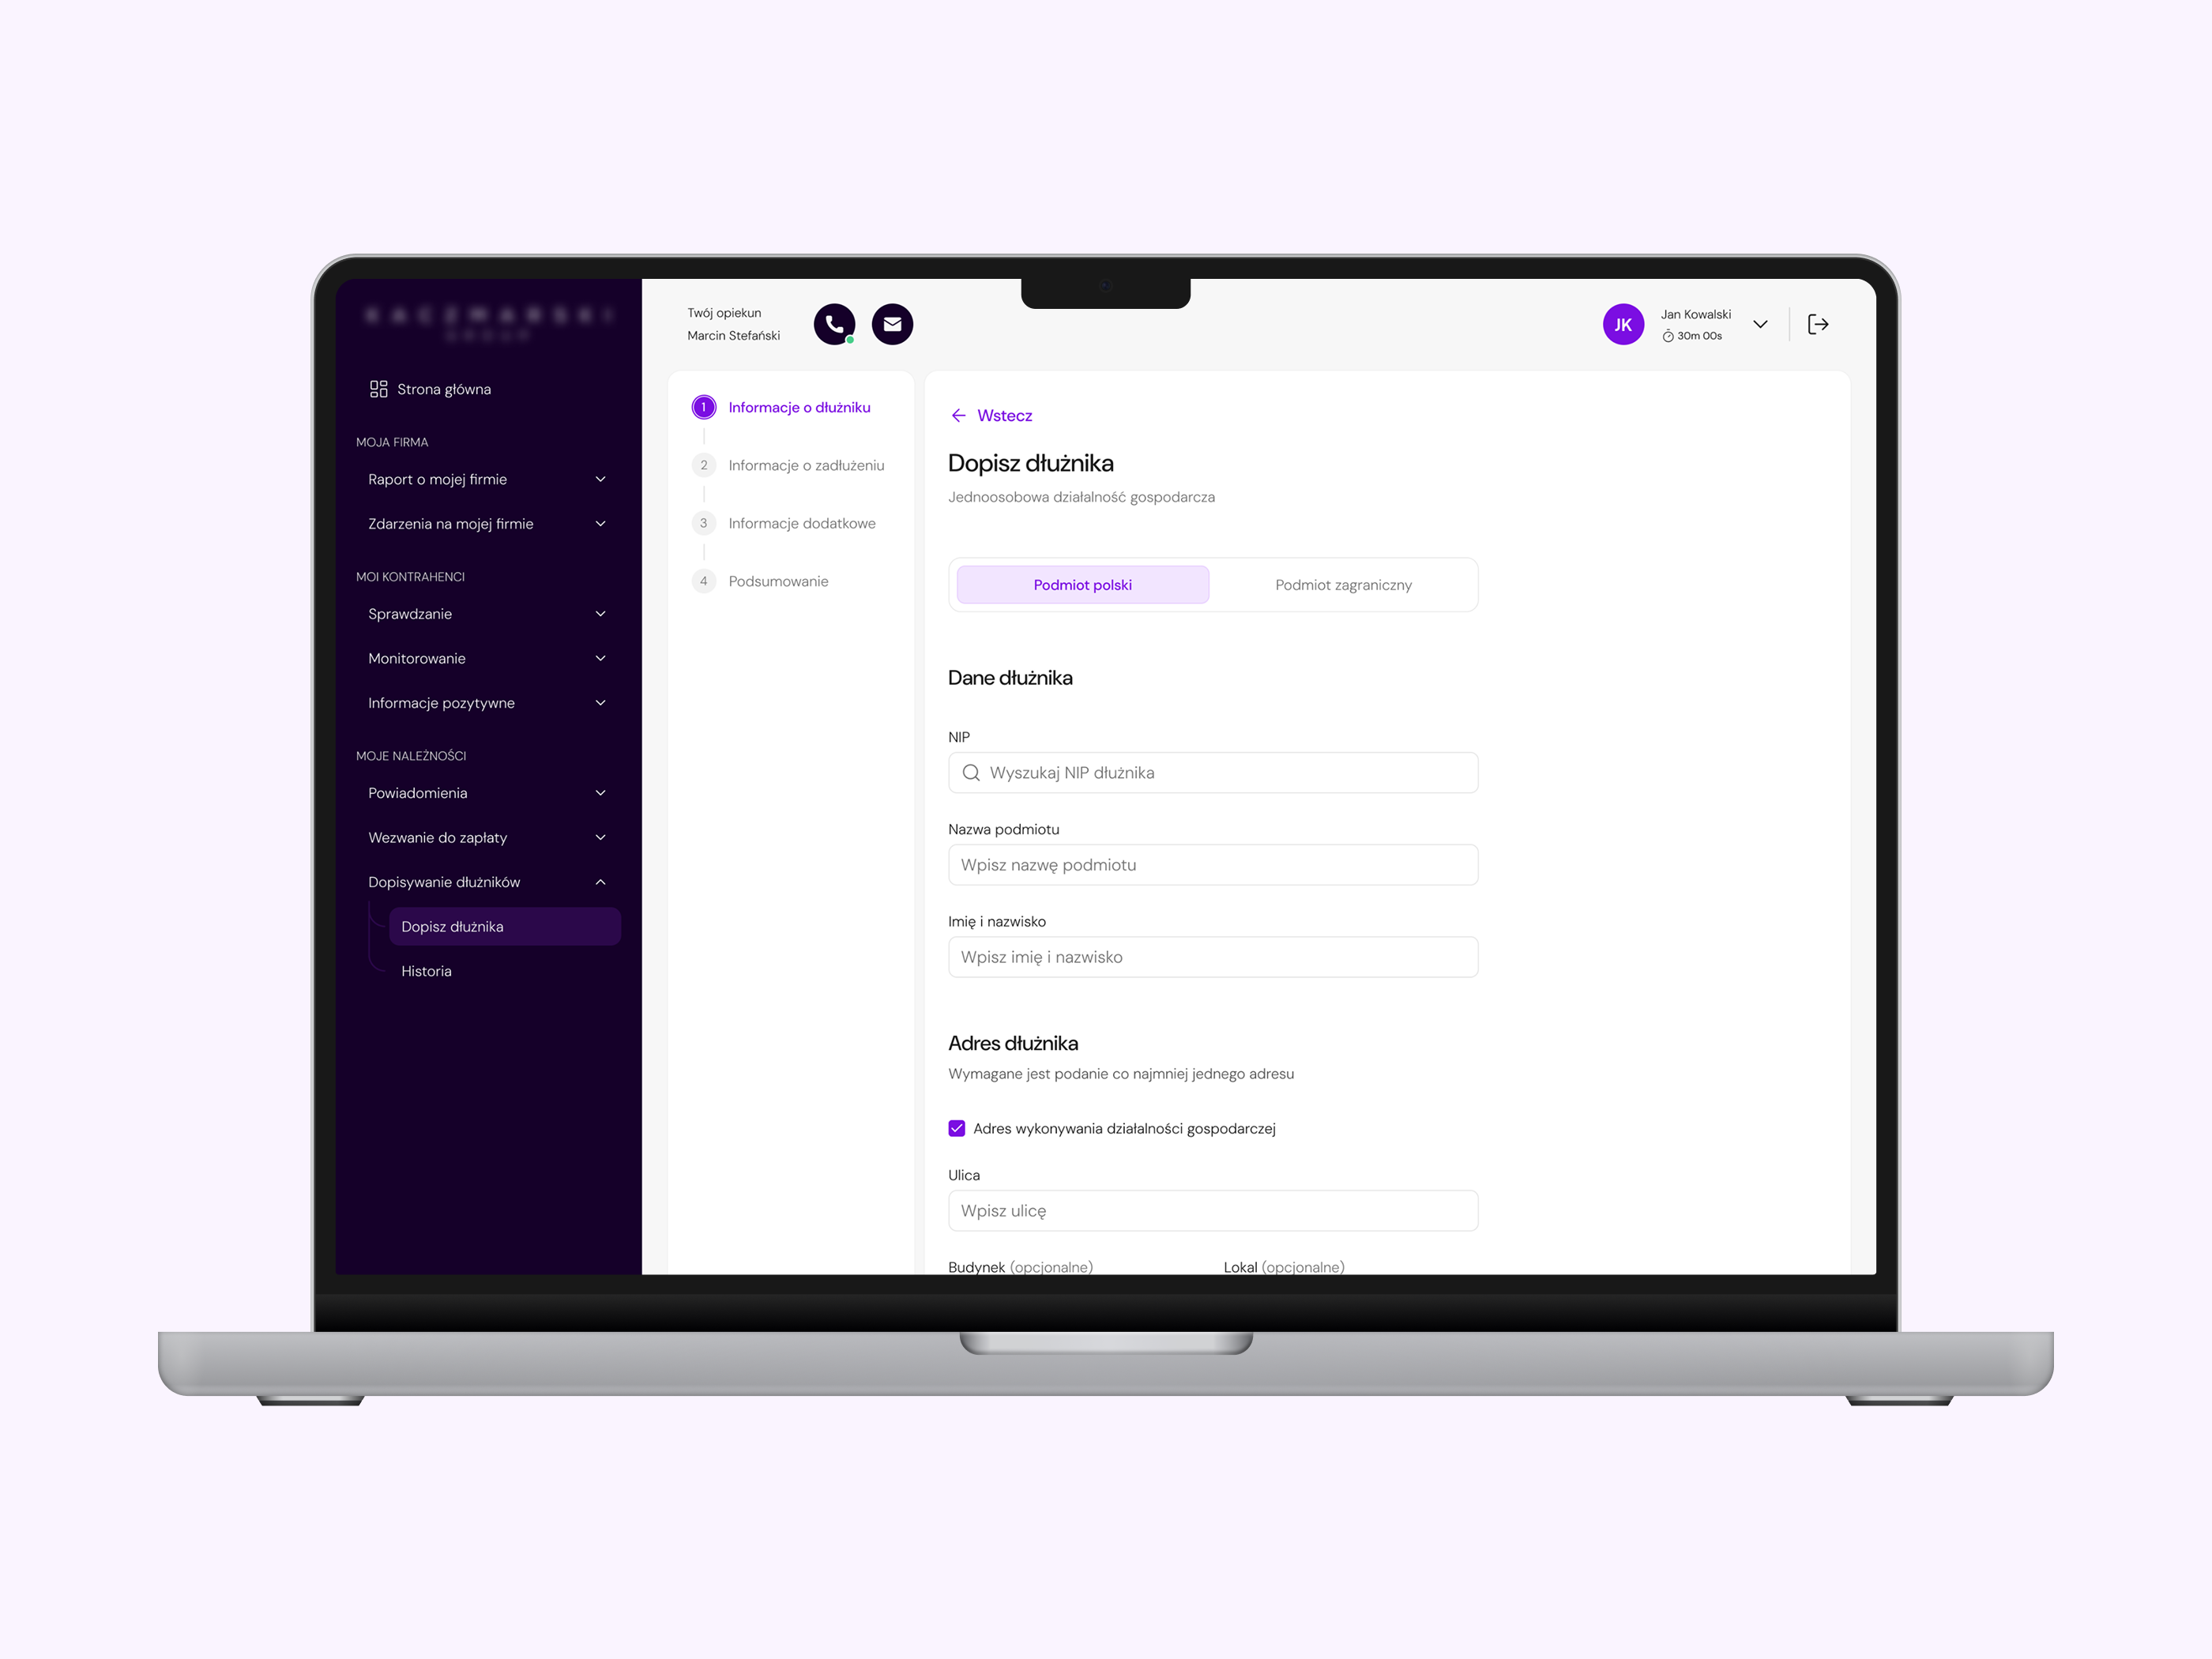
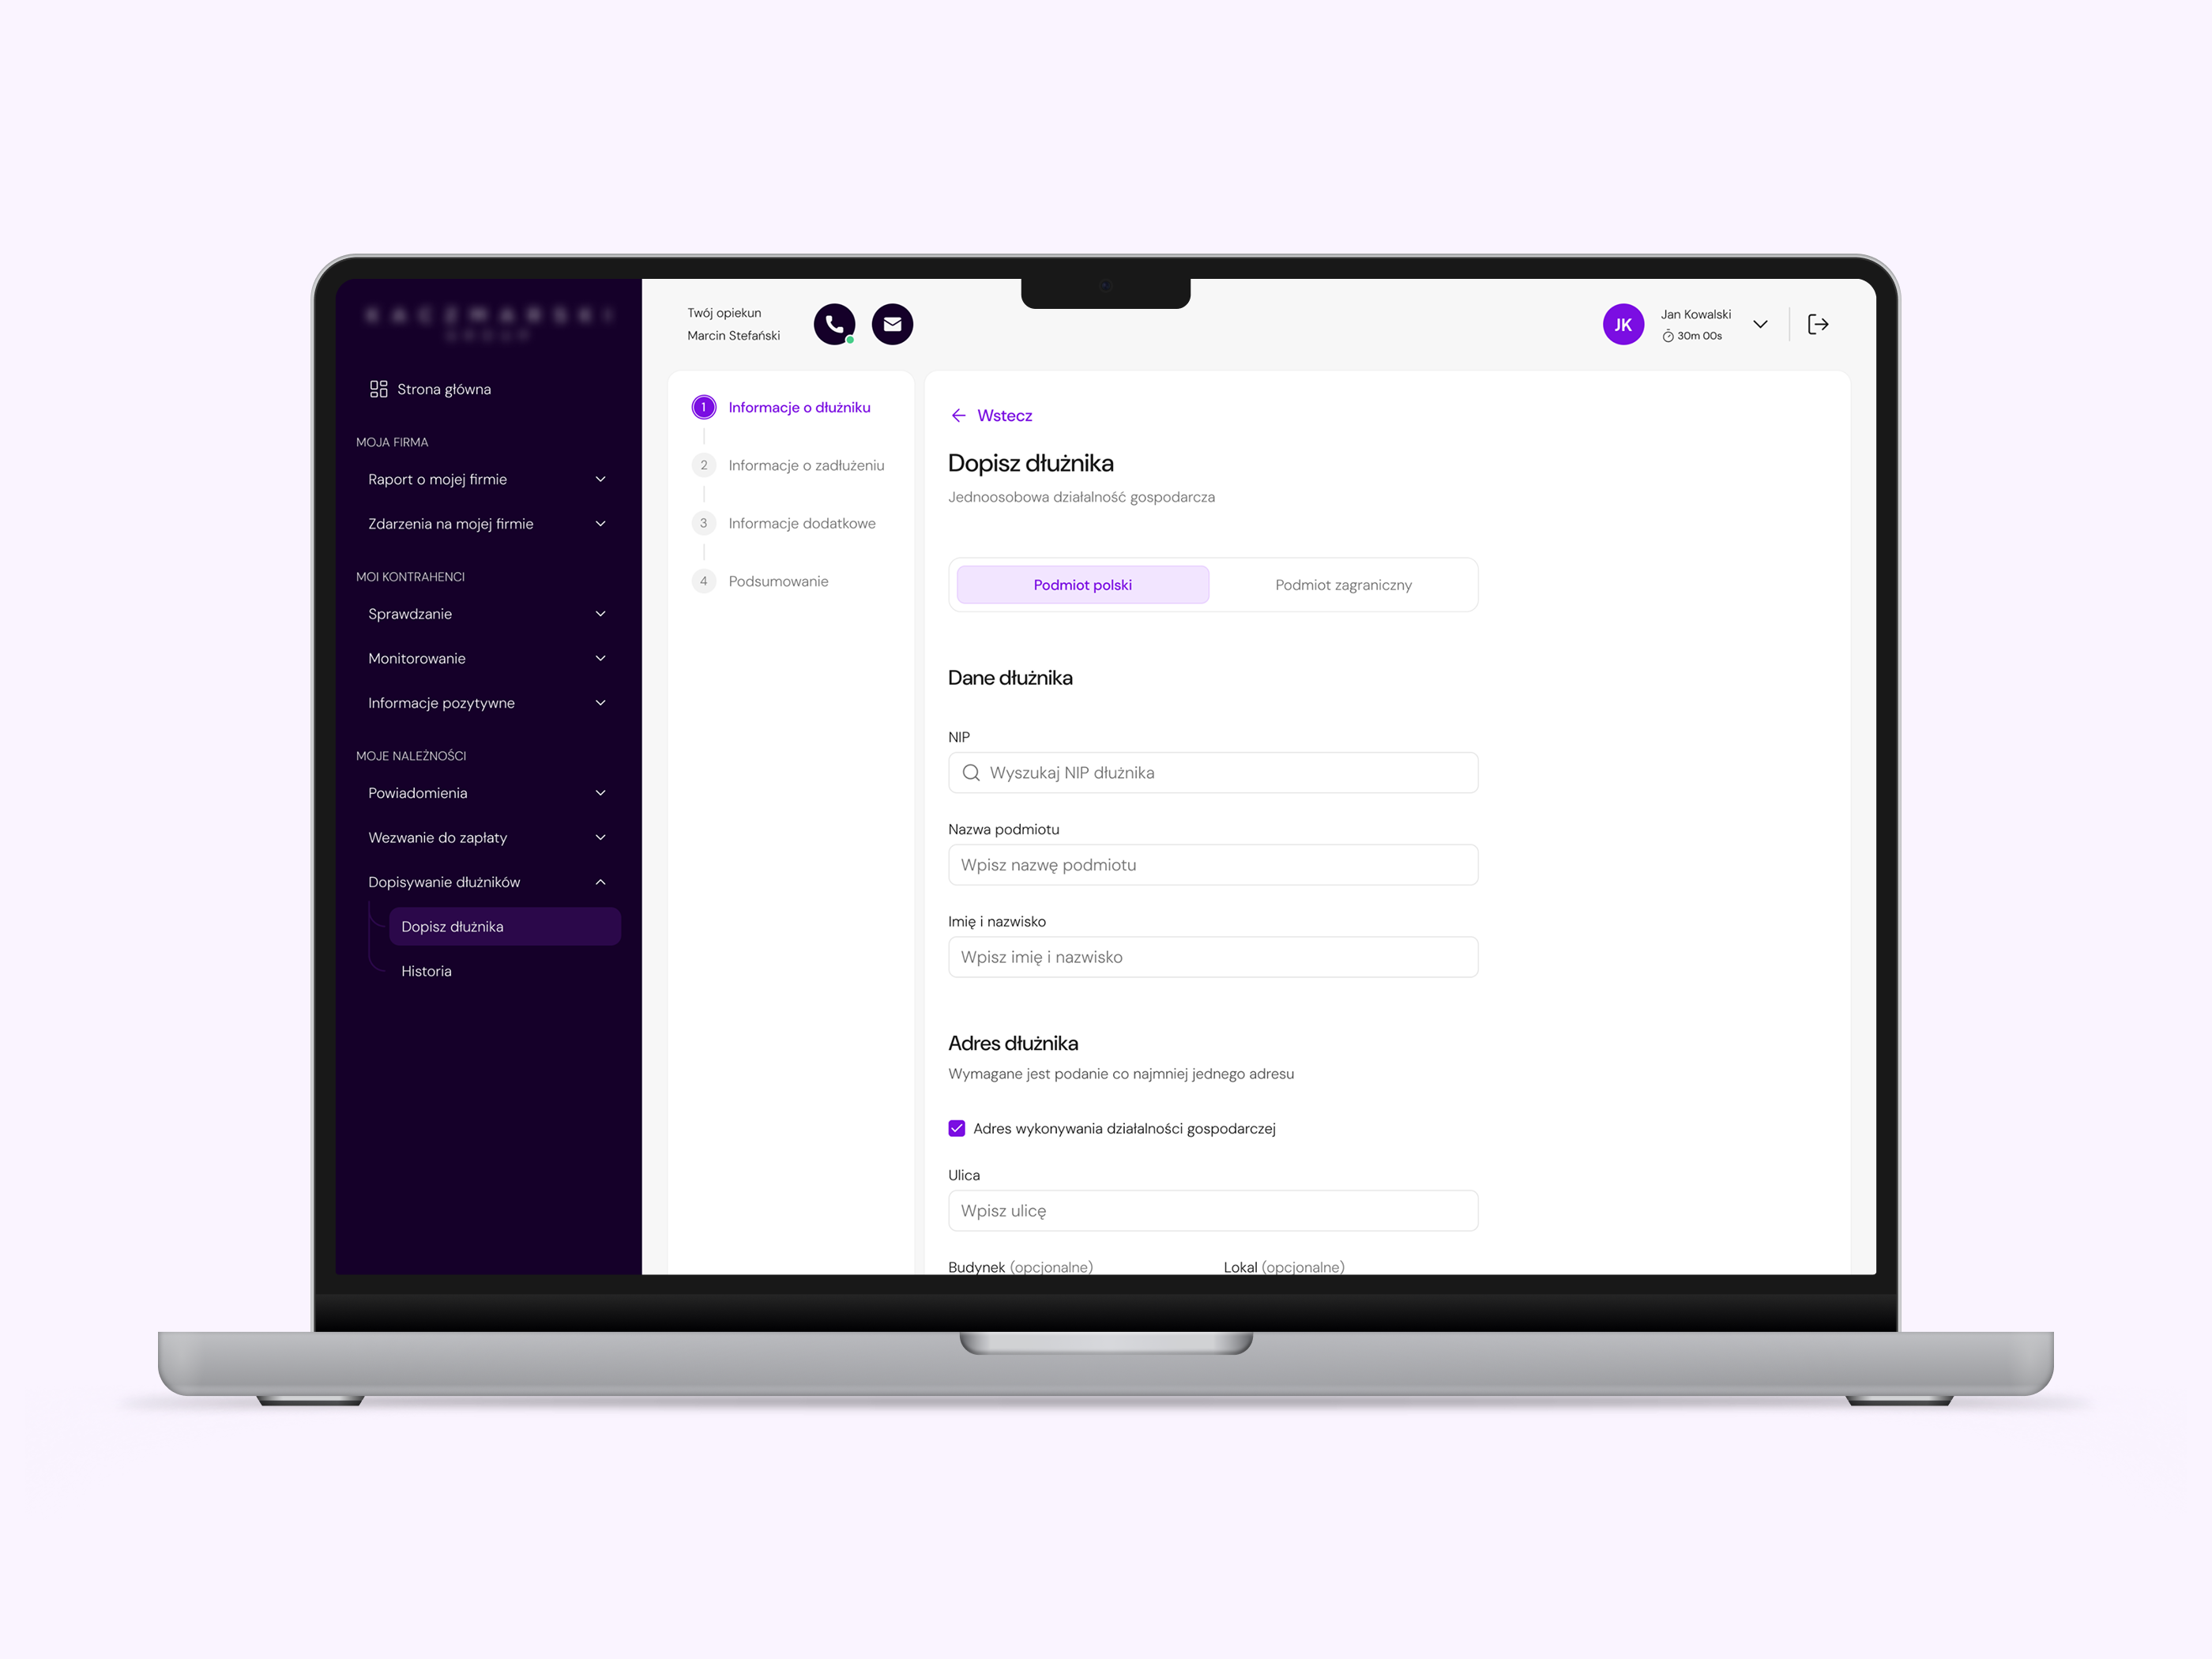
Update colour tokens and assets

Changed region(s): [[0.1554, 0.8357, 0.8389, 0.8667], [0.87, 0.8357, 0.9011, 0.8667], [0.0932, 0.8357, 0.1243, 0.8667]]

diff --git a/case-study-dashboard.html b/case-study-dashboard.html
@@ -1333,29 +1333,29 @@
           <h4 class="cs-section-hd reveal">Goals &amp; UX Requirements</h4>
           <p class="db-discovery-text reveal">The dashboard needed to address problems visible from both the users' and the business perspective: low homepage usability, recurring support questions, and underuse of services available in the panel.</p>
 
-          <div class="db-goals-table reveal" style="margin-top: 80px;">
-            <div class="db-goals-head">
+          <div class="db-goals-table" style="margin-top: 80px;">
+            <div class="db-goals-head reveal">
               <span class="db-goals-head-cell">Business problem</span>
               <span class="db-goals-head-cell">Business goal</span>
               <span class="db-goals-head-cell">UX requirement</span>
             </div>
             <div class="db-goals-body">
-              <div class="db-goals-row">
+              <div class="db-goals-row reveal">
                 <div class="db-goals-cell">Users asked support about limits, invoices, and package scope</div>
                 <div class="db-goals-cell">Reduce repetitive support requests</div>
                 <div class="db-goals-cell">Show available services and key shortcuts directly on the dashboard</div>
               </div>
-              <div class="db-goals-row">
+              <div class="db-goals-row reveal">
                 <div class="db-goals-cell">Clients used only some of the platform's features</div>
                 <div class="db-goals-cell">Increase discoverability and service usage</div>
                 <div class="db-goals-cell">Group actions by user goals, not by product names</div>
               </div>
-              <div class="db-goals-row">
+              <div class="db-goals-row reveal">
                 <div class="db-goals-cell">The homepage did not provide operational value</div>
                 <div class="db-goals-cell">Increase usefulness of the first view after login</div>
                 <div class="db-goals-cell">Show company status, events, and recommended actions in a logical order</div>
               </div>
-              <div class="db-goals-row">
+              <div class="db-goals-row reveal">
                 <div class="db-goals-cell">Users didn't know what to do after seeing data or alerts</div>
                 <div class="db-goals-cell">Support the transition from information to action</div>
                 <div class="db-goals-cell">Add a guidance layer: "What can you do now?"</div>
@@ -1521,23 +1521,23 @@
 
           <p class="db-strategy-body reveal">The key shift was moving from "let's show users the available products" toward "let's answer the questions users have when they log in." Users had access to many services, but lacked context: when, why, and in what order to use them.</p>
 
-          <div class="db-answers reveal">
-            <div class="db-answer">
+          <div class="db-answers">
+            <div class="db-answer reveal">
               <p class="db-answer-q"><span class="db-quote-mark">" </span>How many services can I still use?<span class="db-quote-mark"> "</span></p>
               <img class="db-answer-arr" src="assets/arrow-long.svg" alt="">
               <div class="db-answer-a"><strong>Your package</strong><span>Available checks, monitoring services, quick access to invoices</span></div>
             </div>
-            <div class="db-answer">
+            <div class="db-answer reveal">
               <p class="db-answer-q"><span class="db-quote-mark">" </span>Is my company in a good situation?<span class="db-quote-mark"> "</span></p>
               <img class="db-answer-arr" src="assets/arrow-long.svg" alt="">
               <div class="db-answer-a"><strong>Your company status</strong><span>Most important report data - shown without downloading a full report</span></div>
             </div>
-            <div class="db-answer">
+            <div class="db-answer reveal">
               <p class="db-answer-q"><span class="db-quote-mark">" </span>What is happening around my company?<span class="db-quote-mark"> "</span></p>
               <img class="db-answer-arr" src="assets/arrow-long.svg" alt="">
               <div class="db-answer-a"><strong>Your statistics</strong><span>Reports, entities monitoring the company, company-related events</span></div>
             </div>
-            <div class="db-answer">
+            <div class="db-answer reveal">
               <p class="db-answer-q"><span class="db-quote-mark">" </span>What can I do now?<span class="db-quote-mark"> "</span></p>
               <img class="db-answer-arr" src="assets/arrow-long.svg" alt="">
               <div class="db-answer-a"><strong>What can you do now?</strong><span>Recommended actions grouped by user goals</span></div>
@@ -1706,7 +1706,7 @@
                   <p class="fui-desc">Number of remaining checks and monitoring services shown immediately after login.</p>
                 </div>
               </div>
-              <img src="assets/dashboard/final-ui-package.png" alt="Package visibility" class="fui-img">
+              <img src="assets/dashboard/final-ui-package.png" alt="Package visibility" class="fui-img reveal">
               <div class="fui-why">
                 <span class="fui-why-label">Why</span>
                 <p>Package limits were one of the most common reasons for contacting support. Showing them on the dashboard reduces uncertainty and enables faster action.</p>
@@ -1721,7 +1721,7 @@
                   <p class="fui-desc">Key data from the company report - credibility, credit limit, situation in registers - without opening a full report.</p>
                 </div>
               </div>
-              <img src="assets/dashboard/final-ui-key-data.png" alt="Company status snapshot" class="fui-img">
+              <img src="assets/dashboard/final-ui-key-data.png" alt="Company status snapshot" class="fui-img reveal">
               <div class="fui-why">
                 <span class="fui-why-label">Why</span>
                 <p>Complex data is presented through short messages, statuses, and colors - users get interpretation before detail.</p>
@@ -1736,7 +1736,7 @@
                   <p class="fui-desc">Only three statistics with clear decision-making value: downloaded reports, entities monitoring the company, and company-related events.</p>
                 </div>
               </div>
-              <img src="assets/dashboard/final-ui-statistics.png" alt="Focused statistics" class="fui-img">
+              <img src="assets/dashboard/final-ui-statistics.png" alt="Focused statistics" class="fui-img reveal">
               <div class="fui-why">
                 <span class="fui-why-label">Why</span>
                 <p>Removing statistics that duplicated data or referred to unlimited services strengthened the overall hierarchy without reducing useful information.</p>
@@ -1751,7 +1751,7 @@
                   <p class="fui-desc">The product passage replaced by "What can you do now?" - recommended actions grouped by goal: taking care of your company, checking a contractor, or recovering receivables.</p>
                 </div>
               </div>
-              <img src="assets/dashboard/final-ui-guided-actions.png" alt="Guided actions" class="fui-img">
+              <img src="assets/dashboard/final-ui-guided-actions.png" alt="Guided actions" class="fui-img reveal">
               <div class="fui-why">
                 <span class="fui-why-label">Why</span>
                 <p>Users didn't always know which service to use. Goal-based language - not service names - makes the path from intent to action clear.</p>

diff --git a/style.css b/style.css
@@ -65,8 +65,8 @@
   --mobile-blue-500:             #35A1CC;
   --mobile-blue-700:             #1D6487;
   --mobile-blue-950:             #0A171F;
-  --mobile-blue-500-border:      rgba(53, 161, 204, 0.20);
-  --mobile-blue-500-label:       rgba(53, 161, 204, 0.80);
+  --mobile-blue-500-border:      rgba(34, 125, 167, 0.20);
+  --mobile-blue-500-label:       rgba(34, 125, 167, 0.80);
   --mobile-purple-950-label:     rgba(10, 23, 31, 0.60);
   --mobile-purple-950-subtle:    rgba(10, 23, 31, 0.80);
   --mobile-gray-100:             #F2F2F2;